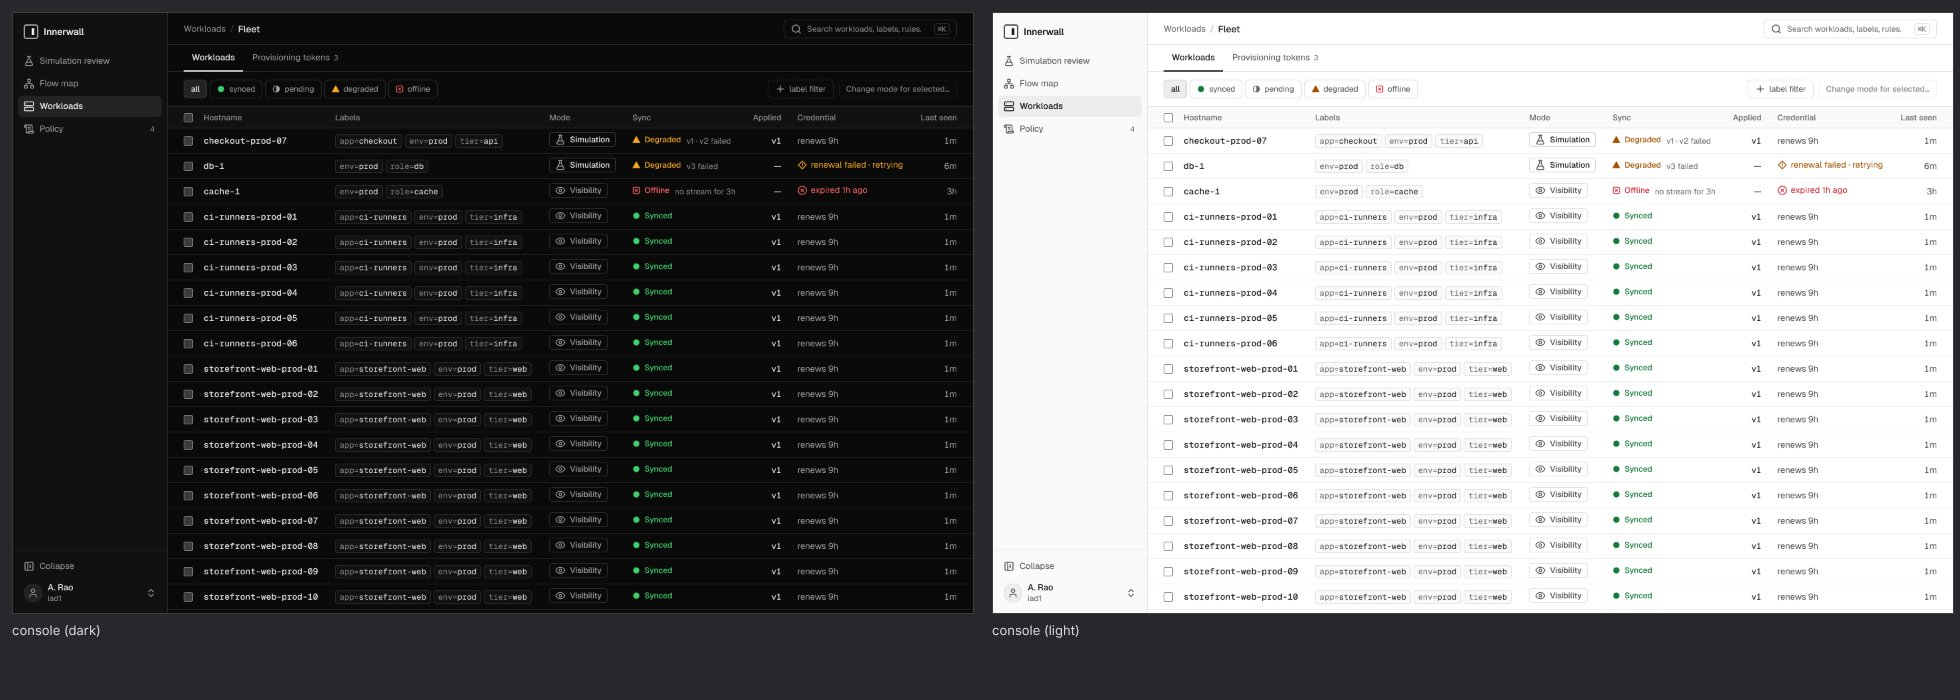
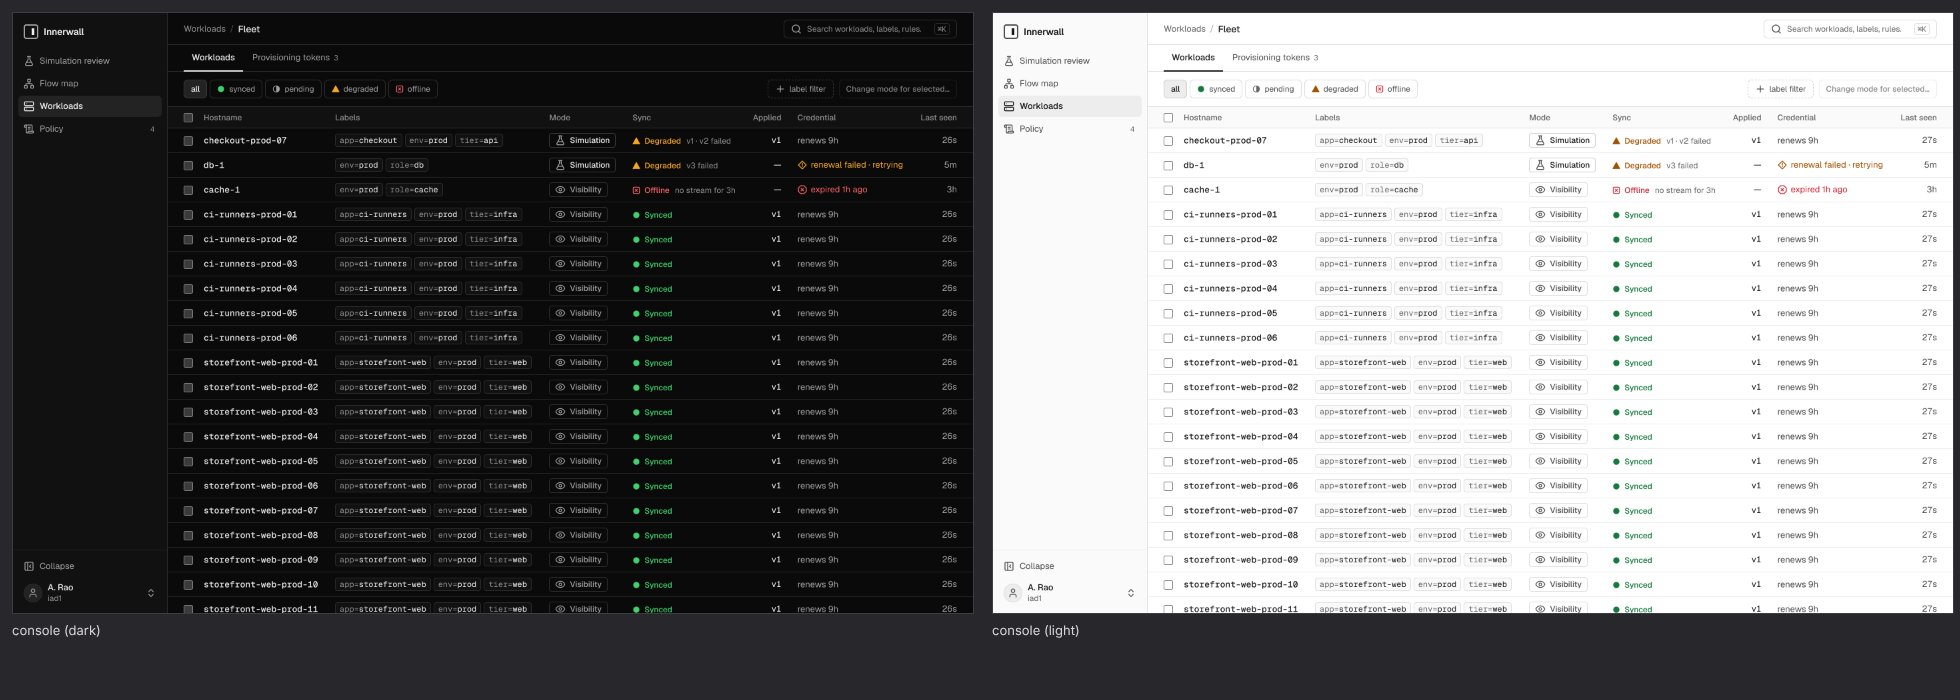
ui: fit fleet rows to row-dense
The fleet table's cells take 7px of vertical padding, so the 22px
tinted mode pill fits the row, and every cell's content aligns to the
middle: the pill had sat on the text baseline, which grew the line box
to 25px and the rows to 40. Rows now render at 37px: the 22px pill,
7px above and below it, and the 1px row hairline. The fleet composites
are recaptured from a fresh seed.

diff --git a/ui/src/routes/fleet/WorkloadList.tsx b/ui/src/routes/fleet/WorkloadList.tsx
@@ -294,7 +294,8 @@ function Row({
 	const labels = labelPairs(w.labels);
 	const cred = credential(w);
 	const note = syncNote(w);
-	const cell = "h-row-dense border-b border-subtle px-3 py-1.5 type-ui";
+	const cell =
+		"h-row-dense border-b border-subtle px-3 py-[7px] type-ui [&>*]:align-middle";
 	return (
 		// The whole row opens the workload for a pointer; the hostname link
 		// is the keyboard's way in, and the checkbox selects without opening.
